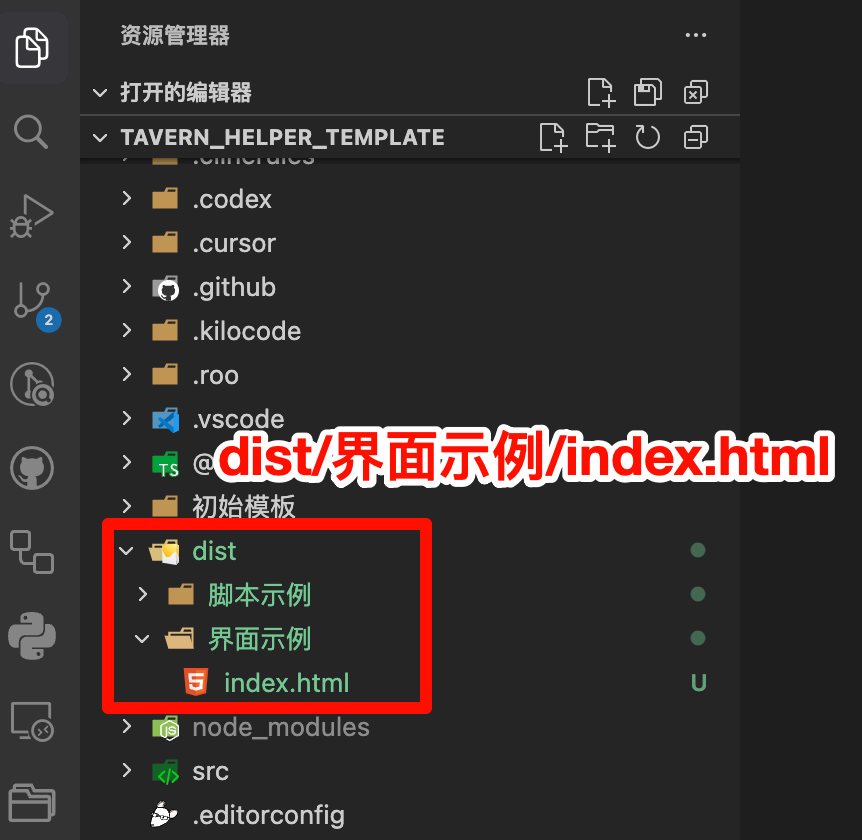
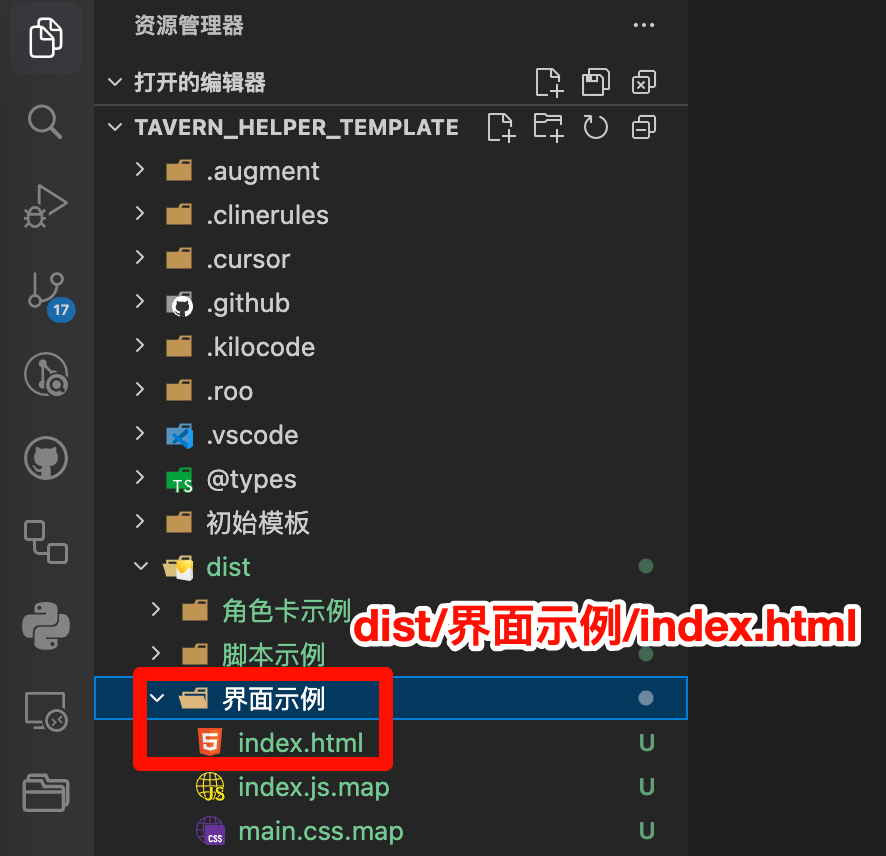
[青空莉/工具经验/实时编写前端界面或脚本] 优化阅读体验

diff --git a/青空莉/工具经验/实时编写前端界面或脚本/实际编写/index.md b/青空莉/工具经验/实时编写前端界面或脚本/实际编写/index.md
@@ -42,7 +42,7 @@
 :::{figure} 打包成功.png
 :::
 
-这个打包结果是单个 html 文件 (如果是脚本则是单个 js 文件), 它包含了项目中所有文件的代码, 因此你可以将它的内容用代码块包裹 (在之前的{doc}`/青空莉/工具经验/实时编写前端界面或脚本/阅读示例/index`中有解释) 然后复制到酒馆正则中的{menuselection}`替换为`部分 (如果是脚本则将它的内容复制到酒馆助手脚本库脚本中的{menuselection}`脚本内容`部分). \
+你只需要考虑打包结果中的那个 .html 文件 (如果是脚本则是 .js 文件), 不必考虑另外的 .map 文件, 它包含了项目中所有文件的代码, 因此你可以将它的内容用代码块包裹 (在之前的{doc}`/青空莉/工具经验/实时编写前端界面或脚本/阅读示例/index`中有解释) 然后复制到酒馆正则中的{menuselection}`替换为`部分 (如果是脚本则将它的内容复制到酒馆助手脚本库脚本中的{menuselection}`脚本内容`部分). \
 如果这个酒馆正则被应用, 酒馆助手就会自动渲染出前端界面:
 
 :::{figure} 渲染结果.png
